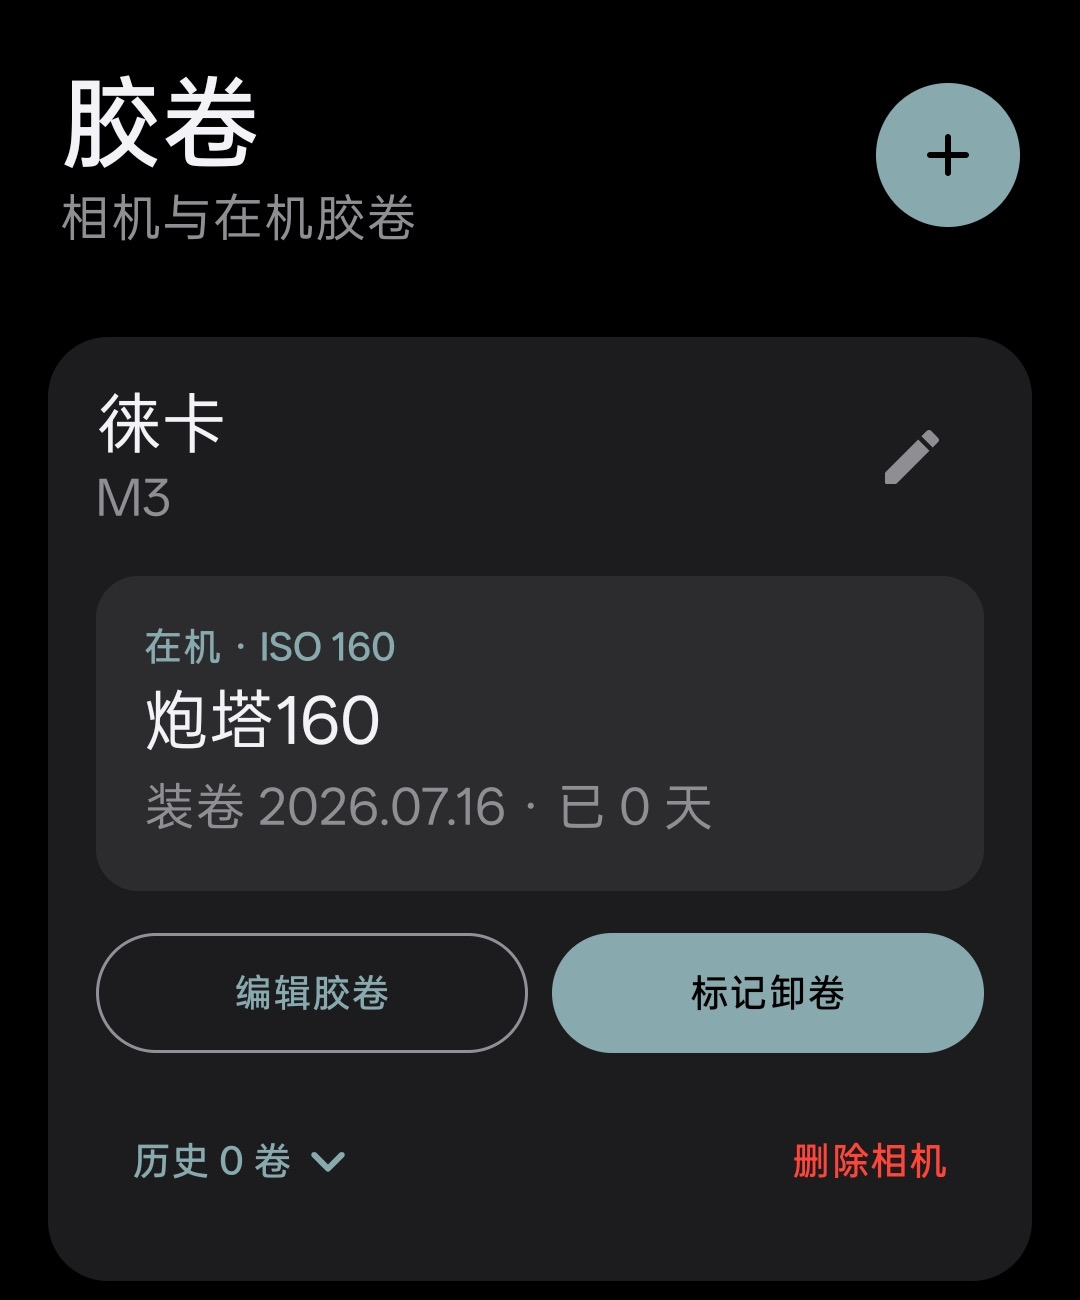
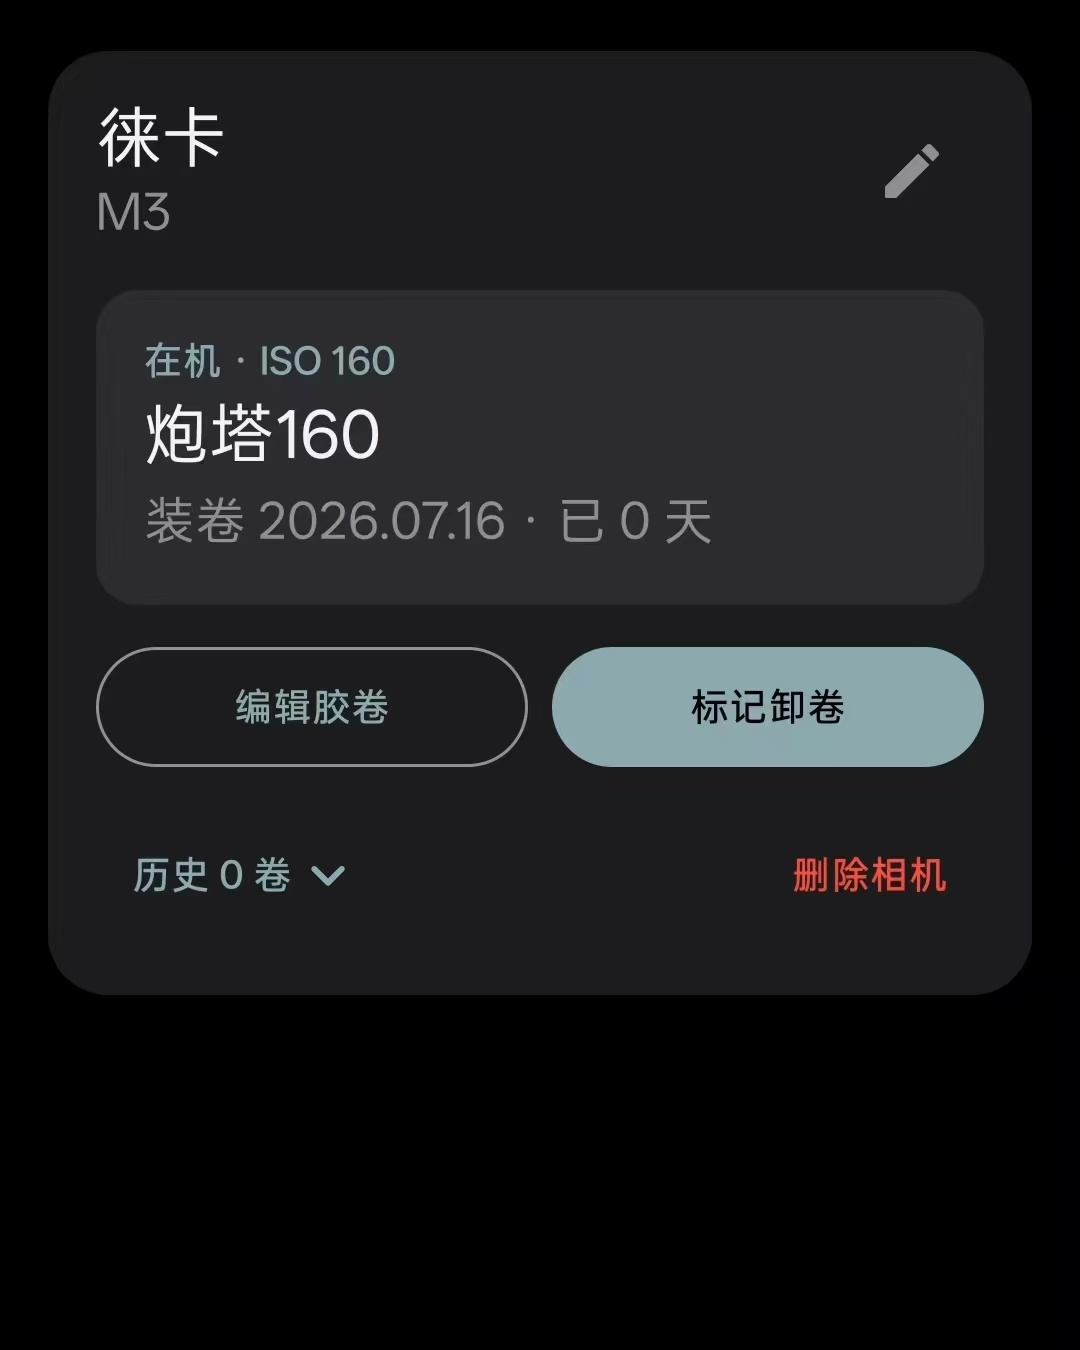
Use user-cropped workflow screens

diff --git a/styles.css b/styles.css
@@ -119,13 +119,8 @@ h1 em, h2 span, .download-section em { font-style: normal; color: var(--accent);
 .workflow-copy p { max-width: 365px; color: #a8b0a6; line-height: 1.85; font-size: 14px; margin: 24px 0 31px; }
 .workflow-copy .text-link { color: var(--paper); border-color: var(--paper); }
 .workflow-copy .text-link:hover { color: var(--accent); border-color: var(--accent); }
-.workflow-visual { position: relative; width: 100%; min-height: 0; aspect-ratio: 1.1; max-width: none; justify-self: end; overflow: hidden; display: block; border: 0; background: #111614; }
-.workflow-screen { display: block; width: 100%; height: 100%; max-width: none; max-height: none; object-fit: cover; object-position: center; transition: transform .3s ease; }
-.workflow-visual[data-screen="meter"] .workflow-screen { object-position: 50% 35%; }
-.workflow-visual[data-screen="flash"] .workflow-screen { object-position: 50% 42%; }
-.workflow-visual[data-screen="film"] .workflow-screen { object-position: 50% 38%; }
-.workflow-visual[data-screen="memo"] .workflow-screen { object-position: 50% 42%; }
-.workflow-visual:hover .workflow-screen { transform: translateY(-6px); }
+.workflow-visual { position: relative; width: 100%; min-height: 0; aspect-ratio: 1.1; max-width: none; justify-self: end; overflow: hidden; display: flex; align-items: flex-end; justify-content: center; border: 0; background: transparent; }
+.workflow-screen { display: block; width: auto; height: auto; max-width: min(78%, 430px); max-height: calc(100% - 34px); object-fit: contain; object-position: center bottom; border-radius: 26px; box-shadow: none; transition: none; }
 .privacy-section { padding-bottom: 160px; }
 .privacy-plate { display: grid; grid-template-columns: 1.15fr .85fr; align-items: center; gap: 80px; min-height: 390px; background: var(--ink); color: var(--paper); padding: 58px 68px; clip-path: polygon(0 0, 98% 0, 100% 18%, 100% 100%, 2% 100%, 0 80%); }
 .privacy-copy .heading-index { color: #929b91; }
@@ -162,7 +157,7 @@ h1 em, h2 span, .download-section em { font-style: normal; color: var(--accent);
   .mobile-nav { position: absolute; left: 0; right: 0; top: 73px; display: grid; gap: 0; max-height: 0; overflow: hidden; background: var(--paper); border-bottom: 1px solid transparent; transition: max-height .35s ease, border-color .35s ease; }.mobile-nav.is-open { max-height: 240px; border-color: var(--line); }.mobile-nav a { padding: 17px 0; border-top: 1px solid var(--line); font: 11px var(--display); letter-spacing: .06em; text-transform: uppercase; }
   .hero { min-height: 0; padding-block: 68px 82px; }.hero h1 { font-size: clamp(54px, 16vw, 82px); }.hero-lede { font-size: 15px; }.hero-facts { margin-top: 48px; gap: 18px 24px; }.hero-facts div { min-width: 105px; }
   .hero-stage { min-height: 465px; padding: 24px; clip-path: polygon(0 0, 91% 0, 100% 8%, 100% 100%, 8% 100%, 0 92%); }.meter-console-real { top: 90px; left: 24%; width: 52%; }.stage-note { bottom: 43px; }.note-b { display: none; }
-  .workflow-section { padding-bottom: 110px; }.workflow-header { display: block; margin-bottom: 35px; }.workflow-header h2 { margin: 24px 0; }.workflow-header p { justify-self: auto; }.workflow-console { grid-template-columns: 1fr; box-shadow: 8px 9px 0 #d8d1c2; }.console-rail { display: grid; grid-template-columns: repeat(4, 1fr); padding: 0; border-right: 0; border-bottom: 1px solid var(--line-dark); }.workflow-tab { display: flex; justify-content: center; padding: 16px 9px; border-left: 0; border-bottom: 3px solid transparent; }.workflow-tab b { display: block; font-size: 13px; margin-top: 0; }.workflow-tab:hover, .workflow-tab.is-active { border-left: 0; border-bottom-color: var(--accent); }.workflow-main { padding: 25px 20px 20px; }.workflow-content { display: flex; flex-direction: column; align-items: stretch; gap: 34px; padding-block: 38px; min-height: 0; }.workflow-copy h3 { font-size: 42px; }.workflow-copy p { font-size: 13px; margin-block: 19px 24px; }.workflow-visual { width: 100%; min-height: 0; aspect-ratio: 1.08; max-width: none; justify-self: auto; }
+  .workflow-section { padding-bottom: 110px; }.workflow-header { display: block; margin-bottom: 35px; }.workflow-header h2 { margin: 24px 0; }.workflow-header p { justify-self: auto; }.workflow-console { grid-template-columns: 1fr; box-shadow: 8px 9px 0 #d8d1c2; }.console-rail { display: grid; grid-template-columns: repeat(4, 1fr); padding: 0; border-right: 0; border-bottom: 1px solid var(--line-dark); }.workflow-tab { display: flex; justify-content: center; padding: 16px 9px; border-left: 0; border-bottom: 3px solid transparent; }.workflow-tab b { display: block; font-size: 13px; margin-top: 0; }.workflow-tab:hover, .workflow-tab.is-active { border-left: 0; border-bottom-color: var(--accent); }.workflow-main { padding: 25px 20px 20px; }.workflow-content { display: flex; flex-direction: column; align-items: stretch; gap: 34px; padding-block: 38px; min-height: 0; }.workflow-copy h3 { font-size: 42px; }.workflow-copy p { font-size: 13px; margin-block: 19px 24px; }.workflow-visual { width: 100%; min-height: 0; aspect-ratio: 1.08; max-width: none; justify-self: auto; }.workflow-screen { max-width: min(82%, 430px); max-height: calc(100% - 26px); }
   .privacy-section { padding-bottom: 110px; }.privacy-plate { display: block; padding: 50px 29px; clip-path: polygon(0 0, 95% 0, 100% 8%, 100% 100%, 5% 100%, 0 92%); }.privacy-copy h2 { font-size: 48px; }.privacy-copy p { font-size: 13px; }.privacy-list { margin-top: 47px; }.privacy-list div { padding-block: 16px; }
   .download-section { padding-bottom: 115px; }.download-section h2 { font-size: clamp(50px, 15vw, 78px); }.footer { display: block; padding-block: 28px; }.footer p { margin: 22px 0; }.footer-links { justify-content: flex-start; flex-wrap: wrap; gap: 12px 18px; }
 }